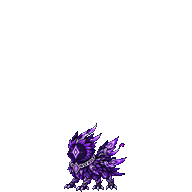
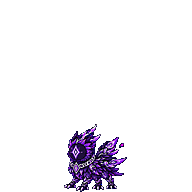
Sửa 2 lỗi Đế Giang: (1) nền sảnh mất khi thú Thần ra trận: bgZoneOf trong index.html, zone 'than' dùng nền vùng người chơi đang ở; (2) ảnh thú mờ: làm lại 3 bậc bằng pipeline kiểu D của repo (thu 2 bước + làm sắc + làm mịn viền alpha). Kiểm tra: cú pháp index.html; chưa xem bằng mắt.

Changed region(s): [[0.3438, 0.6562, 0.6562, 1.0]]

diff --git a/game-moi/index.html b/game-moi/index.html
@@ -938,7 +938,9 @@ function bgImgFor(z){var c=BG_FX_ZONE[z];if(!c)return null;var o=BG_IMGS[z];
 function bgUseImg(z){var c=BG_FX_ZONE[z],o=c&&bgImgFor(z);return !!(o&&o.ok&&o.img.naturalWidth>0&&!(BGV_ZONE[z]&&c.pri==='video'));}
 /* Thú đang đứng ở sảnh = thú RA TRẬN (giống petSanh); không có thì dùng ID. Nền theo vùng của đúng con này (hoặc t.nen nếu có). */
 function bgThu(){var rt=window.TTGTHU&&TTGTHU.getRaTran?TTGTHU.getRaTran():null,rid=rt&&rt.id;return THU_MOI.byId[(rid&&THU_MOI.byId[rid])?rid:ID];}
-function bgWant(){var t=bgThu(),z=t&&(t.nen||t.zone);return SCENE==='sanh'&&!!t&&!!BGV_ZONE[z]&&!bgUseImg(z);}
+/* NỀN SẢNH THEO THÚ RA TRẬN: thú Thần (zone 'than') không có nền riêng -> dùng nền của VÙNG NGƯỜI CHƠI ĐANG Ở (TTGDV.vung()), không có thì Tuyết Nguyên */
+function bgZoneOf(t){var z=t&&(t.nen||t.zone);if(z==='than'){z='tuyet-nguyen';try{var v=window.TTGDV&&TTGDV.vung?TTGDV.vung():0,zs=THU_MOI.zones,i;for(i=0;i<zs.length;i++)if(zs[i].z===v){z=zs[i].slug;break;}}catch(e){}}return z;}
+function bgWant(){var t=bgThu(),z=bgZoneOf(t);return SCENE==='sanh'&&!!t&&!!BGV_ZONE[z]&&!bgUseImg(z);}
 function bgLayout(){var f=K/DPR,th=TH(),fw=W-I.l-I.r,e=bgInset(th),l=e.l,r=e.r,t=e.t,b=e.b;
  [BGV,BGV2].forEach(function(v){v.style.left=Math.round((I.l+l)*f)+'px';v.style.top=Math.round(t*f)+'px';v.style.width=Math.round((fw-l-r)*f)+'px';v.style.height=Math.round((th-t-b)*f)+'px';});}
 function bgShow(c,n){c.style.opacity=1;n.style.opacity=0;}
@@ -948,7 +950,7 @@ function bgTick(g){if(!bgOn||g!==bgGen)return;if(document.hidden){bgRaf=0;return
  if(bgSw&&n.currentTime>0.01&&!n.paused){bgShow(n,c);c.pause();try{c.currentTime=0;}catch(e){}bgCur=n;bgNxt=c;bgSw=false;}
  requestAnimationFrame(function(){bgTick(g);});}
 function bgSync(){
- var t=bgThu(),zone=t&&(t.nen||t.zone);/* t.nen = nền ngoại lệ của thú (3 thú khởi đầu), không có thì theo vùng */
+ var t=bgThu(),zone=bgZoneOf(t);/* t.nen = nền ngoại lệ của thú (3 thú khởi đầu), không có thì theo vùng */
  if(SCENE==='tran'&&BATTLE&&BATTLE.enemy&&BATTLE.enemy.zoneSlug)zone=BATTLE.enemy.zoneSlug;/* trận thật: nền theo vùng của quái/thú hoang */
  bgImageOn=!!((SCENE==='sanh'||(SCENE==='tran'&&BATTLE))&&zone&&bgUseImg(zone));
  if(bgImageOn){bgImg=BG_IMGS[zone];bgConf=BG_FX_ZONE[zone];}else{bgImg=null;bgConf=null;bgBase=null;}/* rời sảnh / vùng không có ảnh: thả bộ nhớ nền ảnh, hiệu ứng tự tắt */
